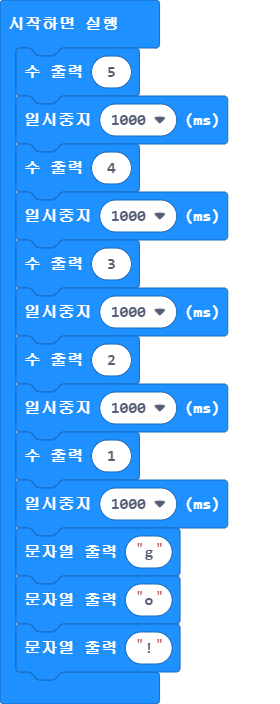
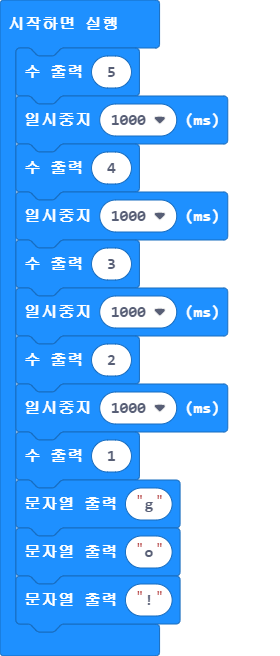
main.blocks, main.ts, main.py 업데이트하기

Changed region(s): [[0.0286, 0.0, 0.8286, 0.9756]]

diff --git a/main.ts b/main.ts
@@ -7,7 +7,6 @@ basic.pause(1000)
 basic.showNumber(2)
 basic.pause(1000)
 basic.showNumber(1)
-basic.pause(1000)
 basic.showString("g")
 basic.showString("o")
 basic.showString("!")

diff --git a/main.py b/main.py
@@ -7,7 +7,6 @@ basic.pause(1000)
 basic.show_number(2)
 basic.pause(1000)
 basic.show_number(1)
-basic.pause(1000)
 basic.show_string("g")
 basic.show_string("o")
 basic.show_string("!")
